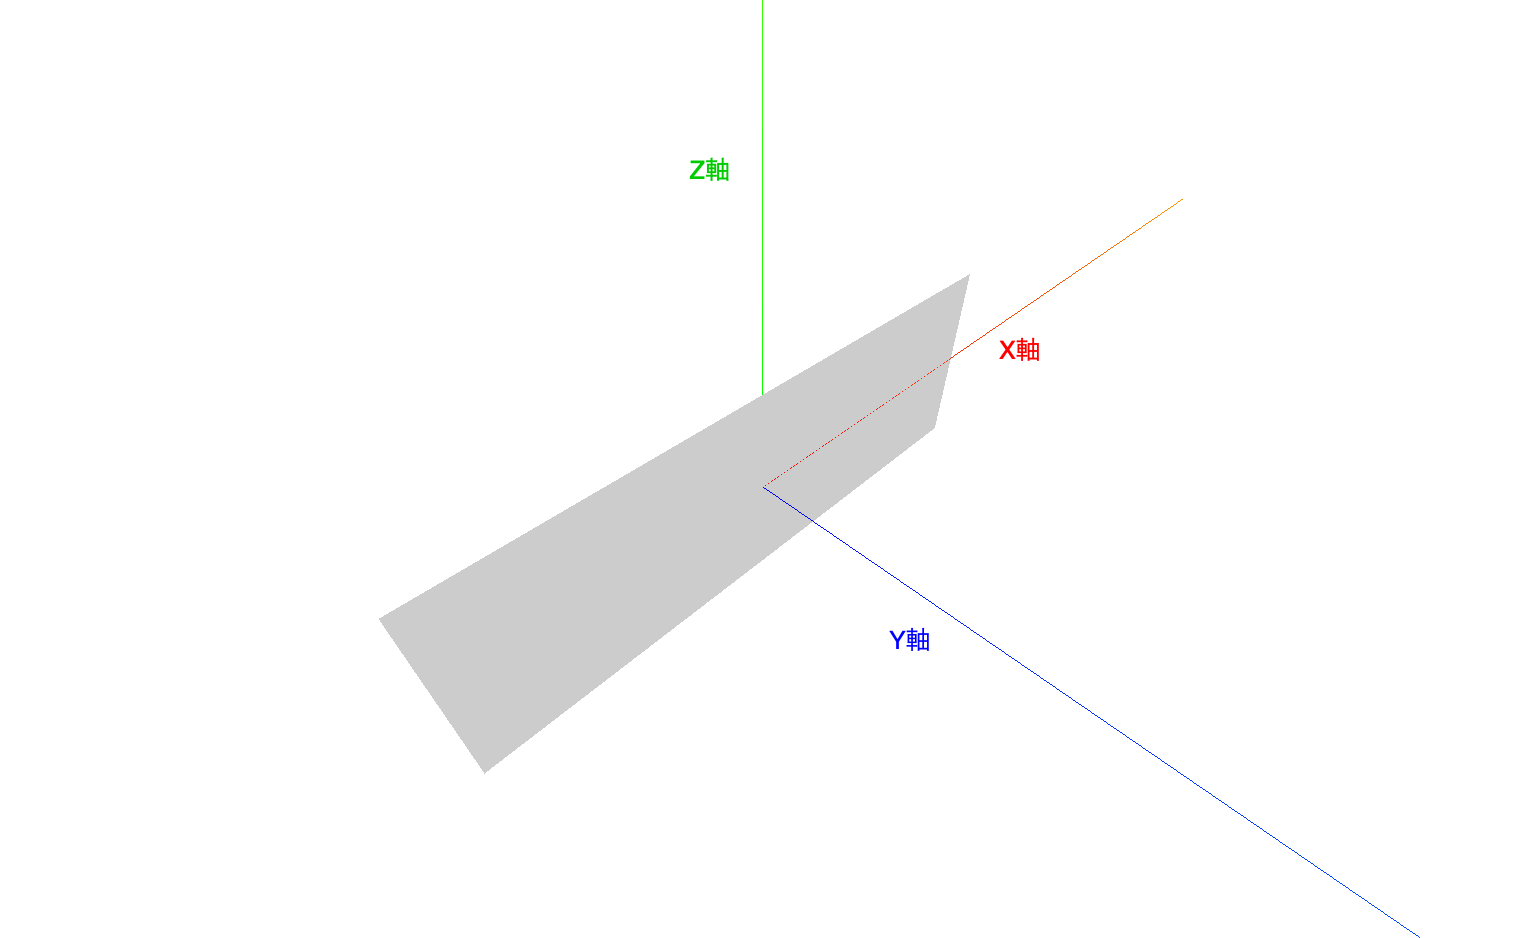
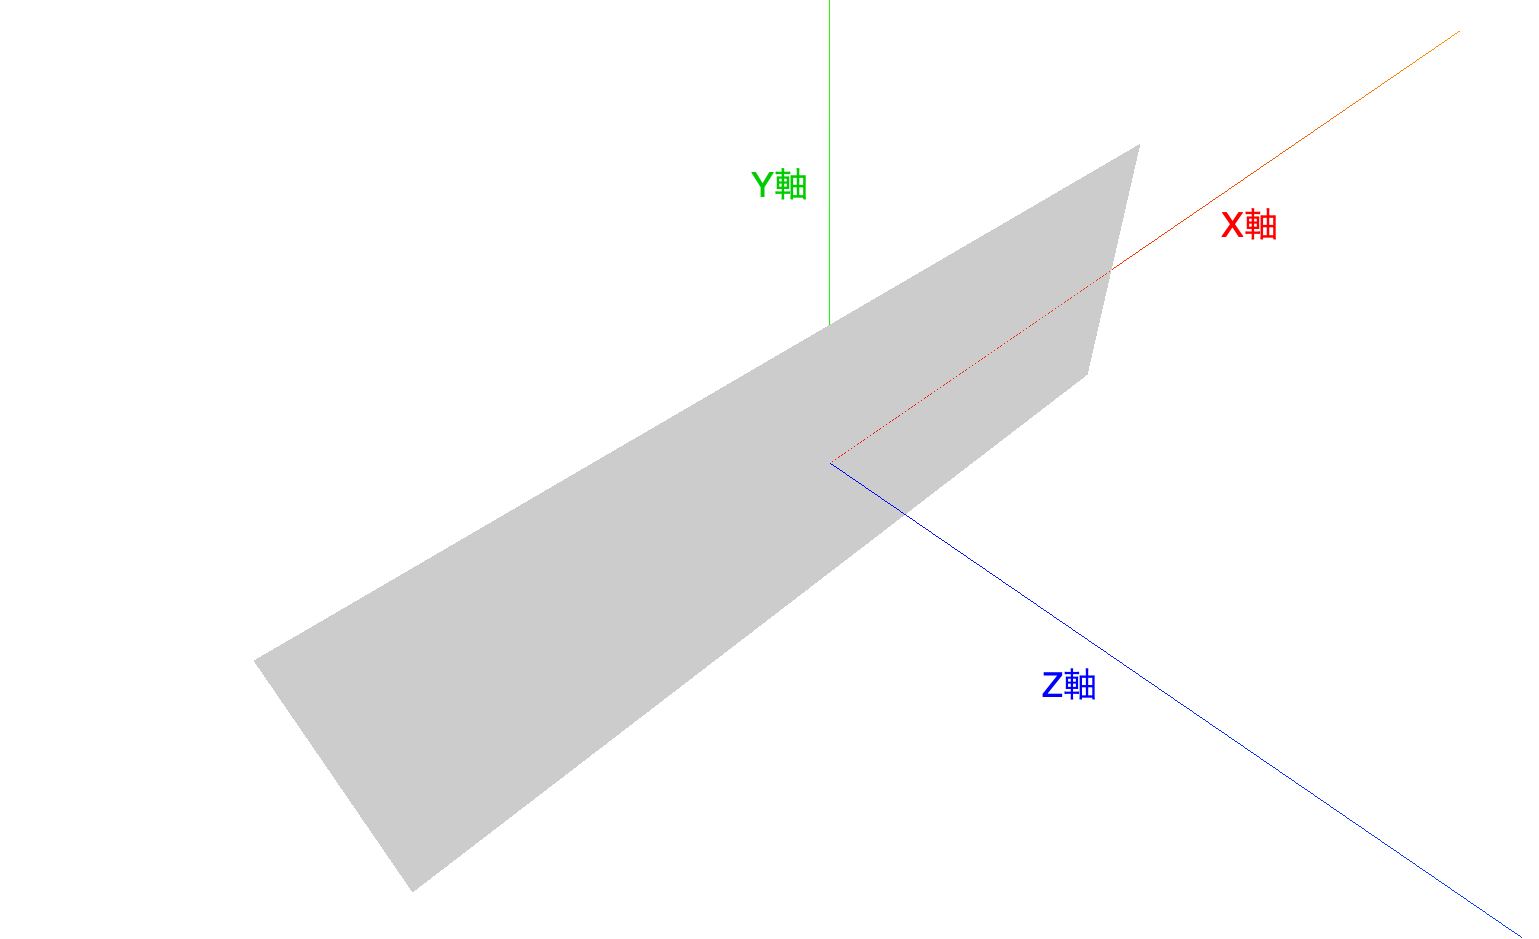
Add another sample of three.js

diff --git a/JavaScript/Library/threejs/samples/cube_ball/index.js b/JavaScript/Library/threejs/samples/cube_ball/index.js
@@ -31,10 +31,33 @@ renderer.setSize(window.innerWidth, window.innerHeight);
 const planeGeometry = new THREE.PlaneGeometry(60, 20);
 const planeMaterial = new THREE.MeshBasicMaterial({ color: 0xcccccc });
 const planeMesh = new THREE.Mesh(planeGeometry, planeMaterial);
-// planeMesh.rotation.z = -0.5 * Math.PI;
-
+planeMesh.rotation.x = -0.5 * Math.PI;
 // オブジェクトをシーンに追加
 scene.add(planeMesh);
+
+// ボックスのオブジェクトの作成
+const cubeGeometry = new THREE.BoxGeometry(4, 4, 4); // 幅、高さ、奥行きが全て4
+const cubeMaterial = new THREE.MeshBasicMaterial({
+  color: 0xff0000,
+  wireframe: true,
+}); // 赤色で骨組みが見えるように
+const cubeMesh = new THREE.Mesh(cubeGeometry, cubeMaterial);
+cubeMesh.position.x = -4;
+cubeMesh.position.y = 3;
+cubeMesh.position.z = 0;
+scene.add(cubeMesh);
+
+// ボールオブジェクトの追加
+const sphereGeometry = new THREE.SphereGeometry(4, 20, 20); //半径が4で、水平方向、垂直方向にしようされるセグメントの数がどちらも20
+const sphereMaterial = new THREE.MeshBasicMaterial({
+  color: 0x7777ff,
+  wireframe: true,
+}); //青色で骨組みが見えるように
+const sphere = new THREE.Mesh(sphereGeometry, sphereMaterial);
+sphere.position.x = 20;
+sphere.position.y = 4;
+sphere.position.z = 2;
+scene.add(sphere);
 
 // レンダリング
 renderer.render(scene, camera);
